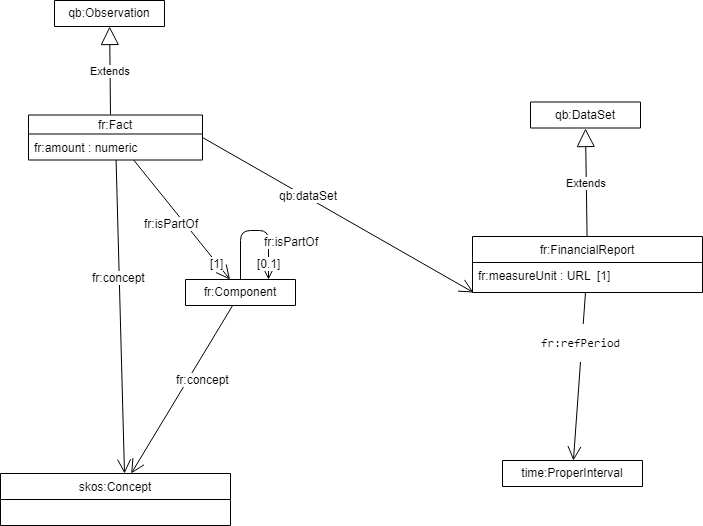
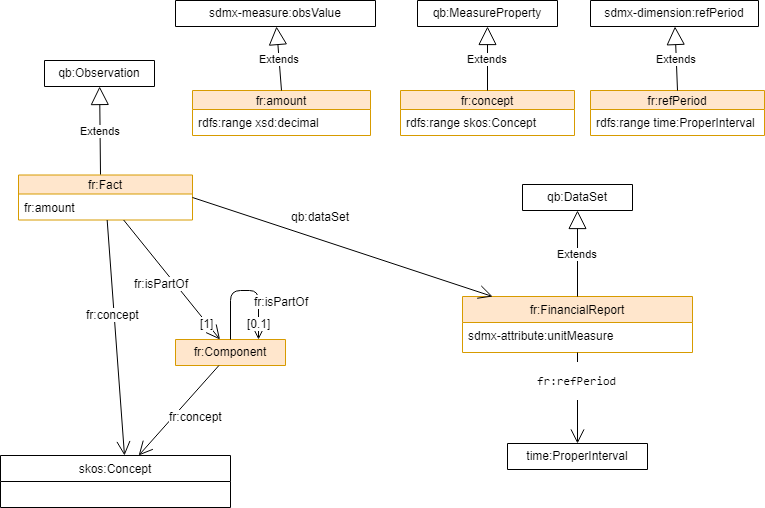
doc revised

diff --git a/README.md b/README.md
@@ -1,23 +1,45 @@
 Financial Report Vocabulary (FR)
 =================================
 
-FR is a simple Ontology defined with [OWL](https://www.w3.org/TR/owl2-primer/) to describe a generic financtial report.
+FR is a simple [OWL](https://www.w3.org/TR/owl2-primer/) vocabilary to describe a generic financtial report.
 
-It captures different perspectives of a report data like historical trends, cross-department and component breakdown . 
+Fr vocabulary be used to capture different perspectives of a report data like historical trends, cross-department and component breakdown . 
 
-FR is an extension ofthe [W3C RDF Data Cube Vocabulary](https://www.w3.org/TR/vocab-data-cube)
+FR extends the [W3C RDF Data Cube Vocabulary](https://www.w3.org/TR/vocab-data-cube) and it is inspired by the [Financial Report Semantics and Dynamics Theory](doc/Theory-2017-06-26.pdf). 
 
-FR is inspired by the [Financial Report Semantics and Dynamics Theory](doc/Theory-2017-06-26.pdf). 
+The main concept in FR is the **Fact** that is an observation of a money amount described with some attributes that is reported in a **FinactialReport** dataset. Facts  are grouped in finacial report **Component**s  and a component can be part of another component. 
 
-The main concept in FR is the **Fact** that is an observation of a money amount described with some attributes: a reference period (e.g. year 2018), etc, etc. Facts  are grouped in **Component**s also described with a concept in a taxonomy, the set of all components define a **FinancialReport** .
+In a Financtial report a fact MUST be contained in just one a component and a component CAN be contained in just one other component. The same facts can be contained in different financial reports.
 
-Every fact and every component is strictly related to a taxonomy of **Concepts** . For defining Concepts FR reuses the skos vocabulary. 
+Every fact and every component is strictly related to a taxonomy of **Concepts**. For defining the **Concepts taxonomy** FR reuses the [SKOS vocabulary](https://www.w3.org/TR/skos-primer).
 
-Some fact properties, if not explicitly defined, can be inherited form the financial report attributes, that provide a default. Also the groups hierarchy can be inferred from the concepts taxonomy structure.
+Beside Data Cube and SKOS vocabulary, time and SDMX standards are also reused. 
+
+The following namespaces are used in this document:
+
+Prefix	        | Namespace	 | Description
+--------------- | ------------------------------------------------- | ----------------
+fr              | http://linkeddata.center/botk-fr/v1#              | this vocabulary
+qb              | http://purl.org/linked-data/cube#                 | W3C RDF Data Cube Vocabulary
+skos            | http://www.w3.org/2004/02/skos/core#              | the W3C SKOS vocabulary
+time            | http://www.w3.org/2006/time#                      | the W3C ontology of temporal concepts
+sdmx-code	    | http://purl.org/linked-data/sdmx/2009/code#	    | SKOS Concepts and ConceptSchemes for each COG defined code list
+sdmx-dimension	| http://purl.org/linked-data/sdmx/2009/dimension#	| component properties corresponding to each COG concept that can be used as a dimension
+sdmx-attribute	| http://purl.org/linked-data/sdmx/2009/attribute#	| component properties corresponding to each COG concept that can be used as an attribute
+sdmx-measure	| http://purl.org/linked-data/sdmx/2009/measure#	| component properties corresponding to each COG concept that can be used as a measure
+
 
 ![FR UML diagram](doc/uml-diagram.png)
 
+Some fact properties, if not explicitly defined, can be inherited form the financial report attributes, that provides a default. Also the groups hierarchy can be inferred from the concepts taxonomy structure.
+
+For an usage example of FR vocabulary see [g0v fr-ap application profile](https://github.com/g0v-it/fr-ap)
+
 ## Editing the FR ontology
+
+The namespace for FR terms is *http://linkeddata.center/botk-fr/v1#*
+
+The suggested prefix for the FR vocabulary namespace is *fr*
 
 FR is expressed in a [owl file](fr.owl) serialized as RDF xml. You can edit the file by hand or using [Protégé](https://protege.stanford.edu/)
 
